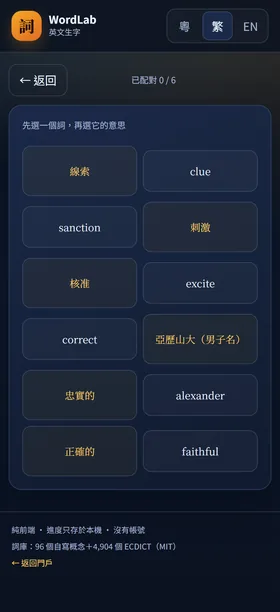
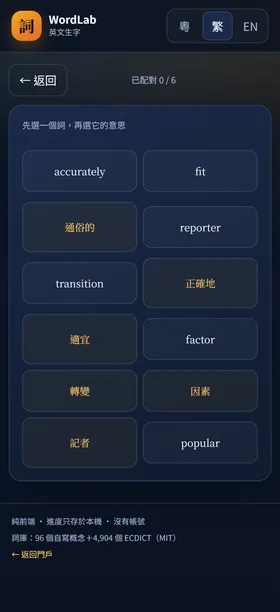
Update hub landing page

diff --git a/wordlab/examples-pack2.js b/wordlab/examples-pack2.js
@@ -1,0 +1,102 @@
+window.WORDLAB_EXAMPLES = Object.assign(window.WORDLAB_EXAMPLES || {}, {
+  "go": { "exEn": "We go to school by bus.", "exZh": "我們坐巴士去學校。", "source": "WordLab" },
+  "get": { "exEn": "I get a new book from Grandpa.", "exZh": "我從爺爺那裡得到一本新書。", "source": "WordLab" },
+  "make": { "exEn": "We make a cake for Mum.", "exZh": "我們為媽媽做蛋糕。", "source": "WordLab" },
+  "know": { "exEn": "I know the answer.", "exZh": "我知道答案。", "source": "WordLab" },
+  "think": { "exEn": "I think this book is funny.", "exZh": "我覺得這本書很有趣。", "source": "WordLab" },
+  "see": { "exEn": "I can see a rainbow.", "exZh": "我看見彩虹。", "source": "WordLab" },
+  "come": { "exEn": "Please come to my birthday party.", "exZh": "請來我的生日派對。", "source": "WordLab" },
+  "want": { "exEn": "I want a glass of water.", "exZh": "我想要一杯水。", "source": "WordLab" },
+  "look": { "exEn": "Look at the little bird.", "exZh": "看那隻小鳥。", "source": "WordLab" },
+  "find": { "exEn": "I cannot find my pencil.", "exZh": "我找不到我的鉛筆。", "source": "WordLab" },
+  "give": { "exEn": "Please give me the ball.", "exZh": "請把球給我。", "source": "WordLab" },
+  "tell": { "exEn": "Can you tell me a story?", "exZh": "你可以講個故事給我聽嗎？", "source": "WordLab" },
+  "feel": { "exEn": "I feel happy today.", "exZh": "我今天覺得開心。", "source": "WordLab" },
+  "become": { "exEn": "The caterpillar will become a butterfly.", "exZh": "毛毛蟲會變成蝴蝶。", "source": "WordLab" },
+  "leave": { "exEn": "We leave home at eight.", "exZh": "我們八點離開家。", "source": "WordLab" },
+  "put": { "exEn": "Put the book on the table.", "exZh": "把書放在桌上。", "source": "WordLab" },
+  "keep": { "exEn": "Keep your room tidy.", "exZh": "保持房間整潔。", "source": "WordLab" },
+  "let": { "exEn": "Let me help you.", "exZh": "讓我幫你。", "source": "WordLab" },
+  "begin": { "exEn": "The film will begin soon.", "exZh": "電影快開始了。", "source": "WordLab" },
+  "seem": { "exEn": "You seem very tired.", "exZh": "你看起來很累。", "source": "WordLab" },
+  "need": { "exEn": "We need water every day.", "exZh": "我們每天都需要水。", "source": "WordLab" },
+  "try": { "exEn": "Try again, please.", "exZh": "請再試一次。", "source": "WordLab" },
+  "ask": { "exEn": "May I ask a question?", "exZh": "我可以問一個問題嗎？", "source": "WordLab" },
+  "call": { "exEn": "Please call me after school.", "exZh": "放學後請打電話給我。", "source": "WordLab" },
+  "work": { "exEn": "My parents work in a hospital.", "exZh": "我父母在醫院工作。", "source": "WordLab" },
+  "move": { "exEn": "Please move your chair.", "exZh": "請移動你的椅子。", "source": "WordLab" },
+  "live": { "exEn": "I live near the park.", "exZh": "我住在公園附近。", "source": "WordLab" },
+  "bring": { "exEn": "Please bring your pencil case.", "exZh": "請帶你的筆袋。", "source": "WordLab" },
+  "happen": { "exEn": "What will happen next?", "exZh": "接下來會發生什麼事？", "source": "WordLab" },
+  "read": { "exEn": "I read a book before bed.", "exZh": "我睡前看書。", "source": "WordLab" },
+  "speak": { "exEn": "Please speak slowly.", "exZh": "請慢慢說。", "source": "WordLab" },
+  "learn": { "exEn": "We learn Chinese at school.", "exZh": "我們在學校學中文。", "source": "WordLab" },
+  "teach": { "exEn": "My aunt will teach us to draw.", "exZh": "我姨姨會教我們畫畫。", "source": "WordLab" },
+  "eat": { "exEn": "We eat fruit after lunch.", "exZh": "我們午餐後吃水果。", "source": "WordLab" },
+  "drink": { "exEn": "Please drink some water.", "exZh": "請喝點水。", "source": "WordLab" },
+  "sleep": { "exEn": "Babies sleep a lot.", "exZh": "嬰兒睡得很多。", "source": "WordLab" },
+  "sit": { "exEn": "Please sit on the chair.", "exZh": "請坐在椅子上。", "source": "WordLab" },
+  "stand": { "exEn": "Please stand behind the line.", "exZh": "請站在線後面。", "source": "WordLab" },
+  "open": { "exEn": "Open the window, please.", "exZh": "請打開窗戶。", "source": "WordLab" },
+  "close": { "exEn": "Please close your book.", "exZh": "請合上書。", "source": "WordLab" },
+  "choose": { "exEn": "You can choose a colour.", "exZh": "你可以選一種顏色。", "source": "WordLab" },
+  "grow": { "exEn": "Plants grow in the sun.", "exZh": "植物在陽光下生長。", "source": "WordLab" },
+  "win": { "exEn": "Our team may win the game.", "exZh": "我們隊可能會贏得比賽。", "source": "WordLab" },
+  "sell": { "exEn": "They sell fruit at the market.", "exZh": "他們在市場賣水果。", "source": "WordLab" },
+  "pay": { "exEn": "I pay for the ticket.", "exZh": "我付錢買票。", "source": "WordLab" },
+  "meet": { "exEn": "Let us meet at the library.", "exZh": "我們在圖書館見面吧。", "source": "WordLab" },
+  "carry": { "exEn": "Please carry your own bag.", "exZh": "請自己拿自己的袋。", "source": "WordLab" },
+  "cut": { "exEn": "Cut the paper with scissors.", "exZh": "用剪刀剪紙。", "source": "WordLab" },
+  "throw": { "exEn": "Do not throw rubbish on the floor.", "exZh": "不要把垃圾丟在地上。", "source": "WordLab" },
+  "pull": { "exEn": "Pull the door to open it.", "exZh": "拉門把它打開。", "source": "WordLab" },
+  "good": { "exEn": "She is a good friend.", "exZh": "她是一個好朋友。", "source": "WordLab" },
+  "new": { "exEn": "I have a new school bag.", "exZh": "我有一個新書包。", "source": "WordLab" },
+  "big": { "exEn": "The elephant is very big.", "exZh": "大象很大。", "source": "WordLab" },
+  "small": { "exEn": "This cup is small.", "exZh": "這個杯子很小。", "source": "WordLab" },
+  "great": { "exEn": "We had a great day at the beach.", "exZh": "我們在海灘度過了美好的一天。", "source": "WordLab" },
+  "little": { "exEn": "The little cat is sleeping.", "exZh": "小貓正在睡覺。", "source": "WordLab" },
+  "long": { "exEn": "The river is very long.", "exZh": "這條河很長。", "source": "WordLab" },
+  "old": { "exEn": "My grandfather is old but strong.", "exZh": "我爺爺年紀大但很強壯。", "source": "WordLab" },
+  "important": { "exEn": "It is important to wash your hands.", "exZh": "洗手很重要。", "source": "WordLab" },
+  "different": { "exEn": "These two books are different.", "exZh": "這兩本書不同。", "source": "WordLab" },
+  "bad": { "exEn": "The weather is bad today.", "exZh": "今天天氣很差。", "source": "WordLab" },
+  "real": { "exEn": "The flowers are real.", "exZh": "這些花是真的。", "source": "WordLab" },
+  "sure": { "exEn": "I am sure this is my bag.", "exZh": "我肯定這是我的袋。", "source": "WordLab" },
+  "strong": { "exEn": "The horse is strong.", "exZh": "這匹馬很強壯。", "source": "WordLab" },
+  "easy": { "exEn": "This puzzle is easy.", "exZh": "這個拼圖很簡單。", "source": "WordLab" },
+  "clear": { "exEn": "The water is clear.", "exZh": "水很清澈。", "source": "WordLab" },
+  "true": { "exEn": "The story is true.", "exZh": "這個故事是真的。", "source": "WordLab" },
+  "short": { "exEn": "The rabbit has a short tail.", "exZh": "兔子有一條短尾巴。", "source": "WordLab" },
+  "beautiful": { "exEn": "The garden is beautiful.", "exZh": "花園很美。", "source": "WordLab" },
+  "clean": { "exEn": "My hands are clean.", "exZh": "我的手很乾淨。", "source": "WordLab" },
+  "quiet": { "exEn": "Please be quiet in the library.", "exZh": "在圖書館請保持安靜。", "source": "WordLab" },
+  "loud": { "exEn": "The music is too loud.", "exZh": "音樂太大聲。", "source": "WordLab" },
+  "slow": { "exEn": "The turtle is slow.", "exZh": "烏龜很慢。", "source": "WordLab" },
+  "fast": { "exEn": "The train is very fast.", "exZh": "火車很快。", "source": "WordLab" },
+  "hot": { "exEn": "The soup is hot.", "exZh": "湯很熱。", "source": "WordLab" },
+  "tree": { "exEn": "A bird is in the tree.", "exZh": "一隻鳥在樹上。", "source": "WordLab" },
+  "flower": { "exEn": "This flower is pink.", "exZh": "這朵花是粉紅色的。", "source": "WordLab" },
+  "bird": { "exEn": "The bird can sing.", "exZh": "這隻鳥會唱歌。", "source": "WordLab" },
+  "fish": { "exEn": "The fish swims in the water.", "exZh": "魚在水裡游。", "source": "WordLab" },
+  "animal": { "exEn": "The panda is my favourite animal.", "exZh": "熊貓是我最喜歡的動物。", "source": "WordLab" },
+  "moon": { "exEn": "The moon is bright tonight.", "exZh": "今晚月亮很明亮。", "source": "WordLab" },
+  "star": { "exEn": "I can see one star.", "exZh": "我看見一顆星星。", "source": "WordLab" },
+  "sky": { "exEn": "The sky is blue.", "exZh": "天空是藍色的。", "source": "WordLab" },
+  "sea": { "exEn": "We swim in the sea.", "exZh": "我們在海裡游泳。", "source": "WordLab" },
+  "river": { "exEn": "A bridge crosses the river.", "exZh": "一座橋橫跨河流。", "source": "WordLab" },
+  "forest": { "exEn": "Many animals live in the forest.", "exZh": "很多動物住在森林裡。", "source": "WordLab" },
+  "snow": { "exEn": "The snow is white.", "exZh": "雪是白色的。", "source": "WordLab" },
+  "wind": { "exEn": "The wind is strong today.", "exZh": "今天風很大。", "source": "WordLab" },
+  "cloud": { "exEn": "A white cloud is in the sky.", "exZh": "一朵白雲在天空。", "source": "WordLab" },
+  "island": { "exEn": "Lantau is a large island.", "exZh": "大嶼山是一個大島。", "source": "WordLab" },
+  "beach": { "exEn": "We build sandcastles at the beach.", "exZh": "我們在海灘堆沙堡。", "source": "WordLab" },
+  "child": { "exEn": "Every child needs love.", "exZh": "每個孩子都需要愛。", "source": "WordLab" },
+  "girl": { "exEn": "The girl is reading a book.", "exZh": "那個女孩正在看書。", "source": "WordLab" },
+  "brother": { "exEn": "My brother is six years old.", "exZh": "我弟弟六歲。", "source": "WordLab" },
+  "sister": { "exEn": "My sister likes to sing.", "exZh": "我妹妹喜歡唱歌。", "source": "WordLab" },
+  "daughter": { "exEn": "Their daughter is in Primary Two.", "exZh": "他們的女兒讀小二。", "source": "WordLab" },
+  "husband": { "exEn": "Her husband cooks dinner.", "exZh": "她的丈夫煮晚餐。", "source": "WordLab" },
+  "people": { "exEn": "Many people visit the park.", "exZh": "很多人參觀公園。", "source": "WordLab" },
+  "baby": { "exEn": "The baby is sleeping.", "exZh": "嬰兒正在睡覺。", "source": "WordLab" },
+  "winter": { "exEn": "Winter is cold in Hong Kong.", "exZh": "香港的冬天很冷。", "source": "WordLab" }
+});

diff --git a/wordlab/app.js b/wordlab/app.js
@@ -78,7 +78,7 @@
     sourceDict: ['字典', '字典', 'Dictionary'],
     sourceCuratedBadge: ['精選', '精選', 'Curated'],
     sourceDictBadge: ['字典', '字典', 'Dictionary'],
-    sourceNote: ['精選 96 個有人手例句；字典層另有 {n} 個常用字有首批例句，其餘未有例句。', '精選 96 個有人手例句；字典層另有 {n} 個常用字有首批例句，其餘未有例句。', '96 curated entries have examples; {n} other dictionary entries have Batch 1 examples; the rest do not.'],
+    sourceNote: ['精選 96 個有人手例句；字典層另有 {n} 個常用字有例句，其餘未有例句。', '精選 96 個有人手例句；字典層另有 {n} 個常用字有例句，其餘未有例句。', '96 curated entries have examples; {n} other dictionary entries also have examples; the rest do not.'],
     exampleBadge: ['例句', '例句', 'Example'],
     resetFilters: ['清除篩選', '清除篩選', 'Clear filters'],
     noFiltered: ['呢個組合暫時冇生字；試下清除篩選。', '這個組合暫時沒有生字；試試清除篩選。', 'No words in this combination — try clearing the filters.'],

diff --git a/wordlab/sw.js b/wordlab/sw.js
@@ -2,7 +2,7 @@
  * Network-first：有網時攞最新，斷網時用快取；導航請求 fallback 去 index.html。
  * 只快取本站靜態檔，冇第三方。
  */
-const CACHE = 'wordlab-v8';
+const CACHE = 'wordlab-v9';
 const ASSETS = [
   './',
   './index.html',
@@ -10,6 +10,7 @@ const ASSETS = [
   './data.js',
   './bulk.js',
   './examples-pack1.js',
+  './examples-pack2.js',
   './app.js',
   './manifest.webmanifest',
 ];

diff --git a/wordlab/index.html b/wordlab/index.html
@@ -42,6 +42,7 @@
     <script src="data.js"></script>
     <script src="bulk.js"></script>
     <script src="examples-pack1.js"></script>
+    <script src="examples-pack2.js"></script>
     <script src="app.js"></script>
     <script>
       if ('serviceWorker' in navigator) {
